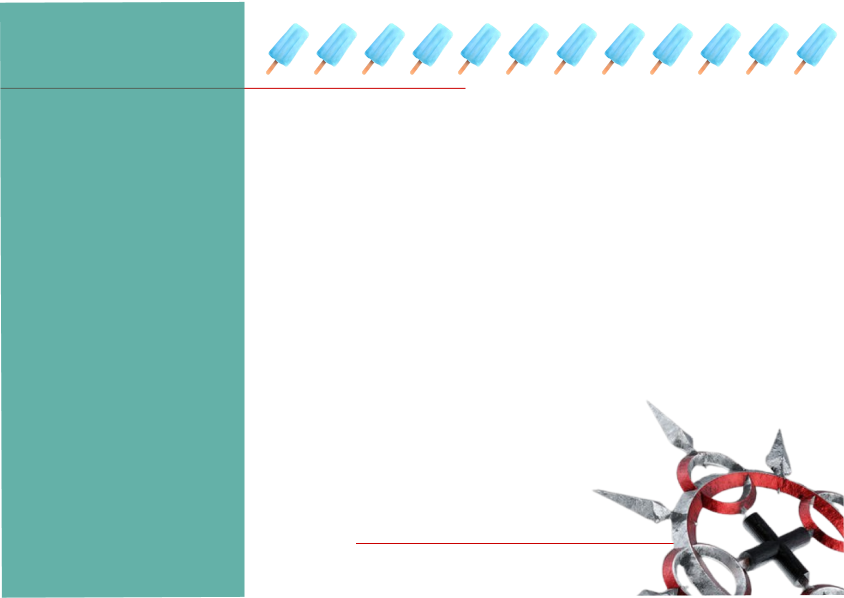
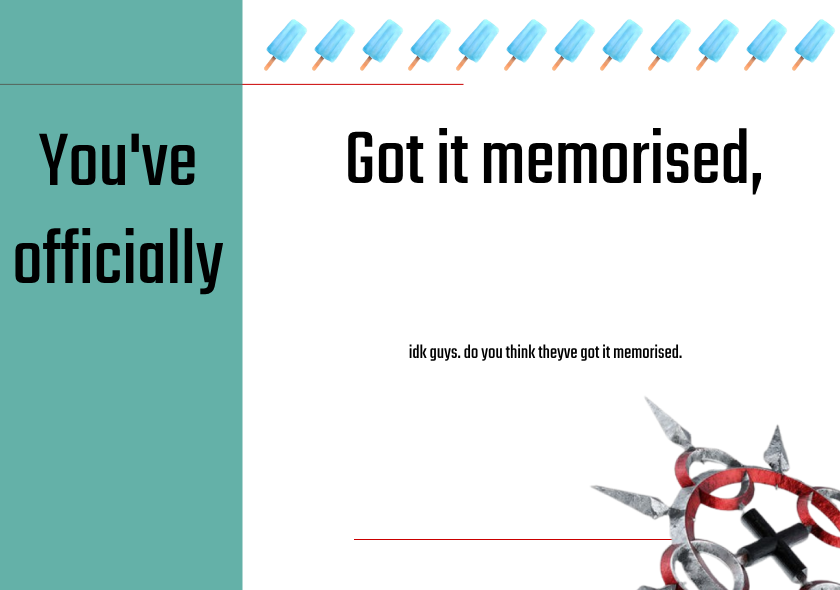
finished up kinda

diff --git a/app.js b/app.js
@@ -6,21 +6,9 @@ function getElements(selector) {
   document.querySelectorAll(selector);
 }
 
-// console.log(getId('certificate'));
-// console.log(getElements('a.button'));
-// getElements('a.button').forEach(button => button.classList.add('whateverclass'));
 
 // Add Event listners when DOM is ready
 document.addEventListener("DOMContentLoaded", function () {
-
-  // check for buttons exist
-  // if (getElements('.button') !== null) {
-  //   let buttons = getElements('.button');
-  //   buttons.forEach(button => button.addEventListener('click', processForm))
-  // }
-
-  // optionally update when fields update
-  // tbd
   getId('name').addEventListener('change', function (eventData) {
     let nameOutput = document.getElementById('nameOutput');
     nameOutput.innerText = eventData.target.value;
@@ -28,9 +16,6 @@ document.addEventListener("DOMContentLoaded", function () {
 
   getId('type').addEventListener('change', function (eventData) {
     let nameOutput = document.getElementById('nameOutput');
-    // let info = getId('info');
-    // nameOutput.innerText = eventData.target.value;
-    // info.innerText = eventData.target.value;
     changeCert(eventData.target.value);
   });
 
@@ -40,17 +25,10 @@ document.addEventListener("DOMContentLoaded", function () {
     console.log(eventData.target);
     var formData = new FormData(eventData.target);
     formData = Object.fromEntries;
-    // output as an object
     console.log(Object.fromEntries(formData));
-
-    // ...or iterate through the name-value pairs
-    // for (var pair of formData.entries()) {
-    //   console.log(pair[0] + ": " + pair[1]);
-    // }
   });
 
-  // Log readiness to console
-  console.log("Ready");
+  
 
   function changeCert(value) {
     let certificate = document.getElementById('certificate');
@@ -73,6 +51,8 @@ document.addEventListener("DOMContentLoaded", function () {
   dateBox.innerText= theDate;
 });
 
+// Log readiness to console
+  console.log("Ready");
 
 function processForm(form) {
 

diff --git a/app.css b/app.css
@@ -59,7 +59,7 @@ input {
     font-family: "Teko", sans-serif;
     position: absolute;
     top: 40%;
-    left: 42%;
+    left: 40%;
     text-align: center;
     font-size: 2.5em;
 }
@@ -67,6 +67,6 @@ input {
 #theDate {
     font-family: "Teko", sans-serif;
     position: absolute;
-    bottom: 30%;
-    left: 40%;
+    bottom: 10%;
+    left: 7%;
 }
